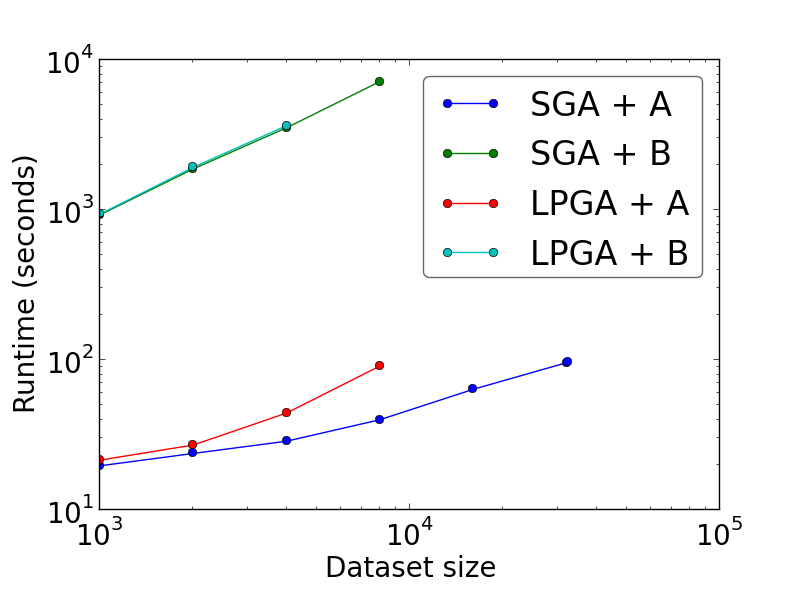
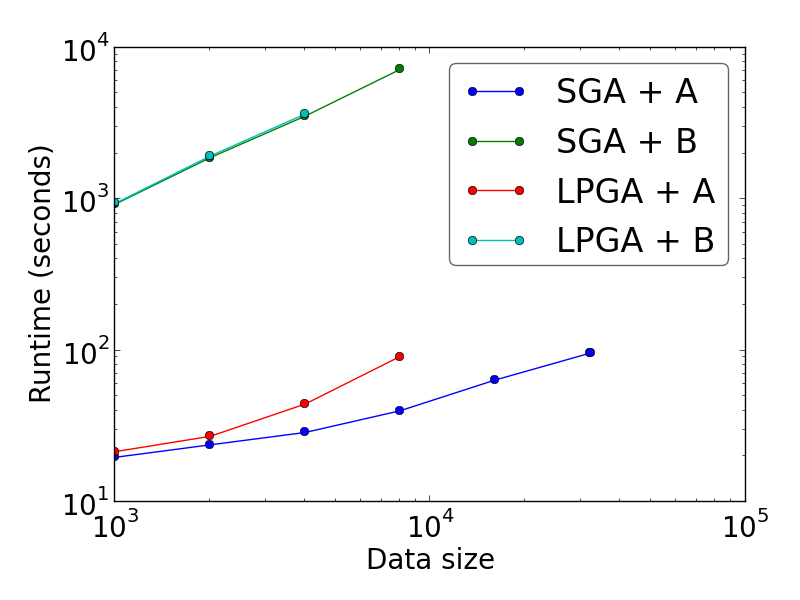
no commit message

diff --git a/paper/experiments.tex b/paper/experiments.tex
@@ -72,13 +72,13 @@ An overview of running times and solution qualities for the point datasets are s
 \hline
 Airports (7K) & Visibility & SGA & 7s & 1.0 \\
 Airports (7K) & Visibility & LPGA & 7s & 1.03 \\
-Tourism (500K) & Visibility & SGA & 6m 9s s & 1.0 \\
+Tourism (500K) & Visibility & SGA & 6m 9s & 1.0 \\
 Tourism (500K) & Visibility & LPGA & 13m 35s & 1.0 \\
 \hline
 Airports (7K)  & Proximity  & SGA & 3s & 1.18 \\
 Airports (7K)  & Proximity & LPGA & 7s s & 1.22 \\
 Tourism (500K) & Proximity & SGA & 7m 17s & 1.21 \\
-Tourism (500K) & Proximity & LPGA & 2h 18m 57s & 1.24 \\
+Tourism (500K) & Proximity & LPGA & 2h 18m & 1.24 \\
 \hline
 \end{tabular}
 \end{center}
@@ -121,7 +121,7 @@ Tourism (500K) & Proximity & LPGA & 2h 18m 57s & 1.24 \\
   \vspace{-2ex}
 \end{figure*}
 
-\minisec{Performance and Quality}
+\minisec{Performance breakdown}
  Figure~\ref{fig:performance:airport} shows the performance breakdown per zoom level of executing CVL with the Openflight airports dataset. Note the different y-scales in the graphs. In Parts~(a)-(c), we observe that the time needed to find conflicts is roughly stable until eight zoom levels, then slightly increases, and finally drops sharply for lower zoom levels. The constraints used generate few conflicts at higher zoom levels, given the relatively low density of the airport distribution in space. Nevertheless, even though almost no conflicts are generated, the dataset is still processed, resulting in roughly equal time for finding conflicts and negligible time for solving conflicts per zoom level. 
  
 As zoom levels decrease, more conflicts naturally arise, leading initially to increased conflict finding time, as well as conflict solving time. However, as conflicts are solved, records are deleted from the dataset taken as input for the next zoom level. This procedure causes conflict finding time (and eventually total time) to drop significantly for low zoom levels. For SGA under the proximity constraint (Part (a)), total time at zoom level zero is over two times shorter than the initial runtime at zoom level 17; for LPGA under the visibility constraint (Part (b)), the difference in total time reaches over an order of magnitude.  
@@ -158,6 +158,8 @@ The combination of LPGA + Proximity + Points does not scale. We have excluded th
 \subsection{Complex Shape Data}
 \label{sec:exp:complex:shapes}
 
+In Table~\cite{tab:complex:overview} we summarize running times and average optimality ratios for complex shape data. We immediately observe that the average optimality ratio for the visibility constraint is no longer $1.0$ for the SGA solver. This is because the conflict sets are no longer disjoint.
+
 \begin{table}[htdp]
 \caption{Results for CVL on complex datasets grouped by constraint}
 \begin{center}
@@ -177,11 +179,11 @@ Zones (30K) & Proximity & LPGA & --- & --- \\
 \hline
 \end{tabular}
 \end{center}
-\label{tab:results:overview}
+\label{tab:complex:overview}
 \end{table}%
 
 
-\minisec{Performance and Quality}
+\minisec{Performance breakdown}
 
 In Figure~\ref{fig:performance:complex} we have selected three performance breakdowns for the two complex datasets. What we see is that, for complex shape datasets, the running time is mostly dominated by the time spent finding conflicts. Finding conflicts operates over the geometric properties of the data, and requires time proportional to the number of points that make up each complex shape. When solving conflicts, the running time is independent of geometric complexity. This causes the running time to be dominated by finding conflicts for complex shape datasets.
 

diff --git a/code/graphs/cvlgraph.py b/code/graphs/cvlgraph.py
@@ -47,7 +47,7 @@ class Scalability(object):
         plt.xlabel('Data size')
         plt.ylabel('Runtime (seconds)')
         filename = os.path.join(output_dir, "scal_{0:s}.png".format(self.ds_name))
-        plt.subplots_adjust(bottom=0.15)
+        plt.tight_layout()
         plt.savefig(filename)
         plt.clf()
         print "Writing figure to {0:s}".format(filename)
